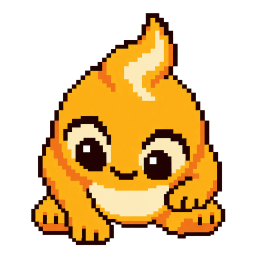
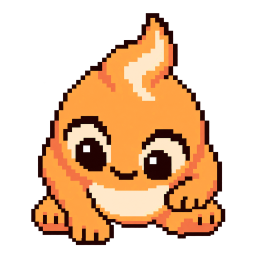
Wren gets a face; Juno stops changing colour
Wren is Sonnet — the default chat model — so the crew member who speaks most was
the one drawn as a stock compass-rose avatar beside four drawn characters. Seven
poses now: a violet creature with big round ears and a small star, chosen to
separate from the owl, the flame crest, the leaf ears and the sparrow at 52px.
Checked at thread size against the crew before the remaining frames were trusted,
and hue-checked across all seven poses: a 5.8° spread, within the crew's range.

Measuring Wren against the crew exposed Juno. Its idle, type and think frames were
red-orange and its blink, sleep, cheer and peek frames yellow-amber — two
generation batches — so Juno visibly changed colour as it woke (sleep and blink
yellow, then idle orange) and again when it cheered. The body pixels of the four
later frames were shifted onto the idle's hue, saturation and value, leaving
outlines, eyes and highlights alone: body hue 35–38° → 28.2–28.5° against idle's
28.5°. They are still drawn a little flatter; the colour no longer jumps.
Pre-recolour originals are kept.

A correction on the way: an earlier measurement said Juno flickered between two
oranges while typing, a 28.6° shift between idle and type. That was hue averaged
as a plain number when it is an angle — dark red outline pixels near 360° dragged
it. With a circular mean over body pixels only, idle and type differ by 2°.

Changed region(s): [[0.125, 0.0625, 0.875, 0.9375]]

diff --git a/server/src/crew.ts b/server/src/crew.ts
@@ -77,7 +77,7 @@ const DEFAULTS: Persona[] = [
   { match: 'fable', suite: 'claude', name: 'Bram', tier: 'flagship', color: '#5b45c7', avatar: '/avatars/fox.png' },
   { match: 'opus', suite: 'claude', name: 'Ollie', tier: 'flagship', color: '#2f3a72', avatar: '/avatars/narwhal.png', sprite: 'ollie' },
   { match: 'haiku', suite: 'claude', name: 'Moss', tier: 'worker', color: '#205a1d', avatar: '/avatars/mountain-goat.png', sprite: 'moss' },
-  { match: 'sonnet', suite: 'claude', name: 'Wren', tier: 'worker', color: '#673eb4', avatar: '/avatars/compass-rose.png' },
+  { match: 'sonnet', suite: 'claude', name: 'Wren', tier: 'worker', color: '#673eb4', avatar: '/avatars/compass-rose.png', sprite: 'wren' },
 
   // --- Codex ---
   { match: 'mini', suite: 'codex', name: 'Tuck', tier: 'worker', color: '#c7850b', avatar: '/avatars/robot.png' },

diff --git a/server/tests/doctrine.test.ts b/server/tests/doctrine.test.ts
@@ -130,7 +130,7 @@ describe('the crew animates by cutting, not fading', () => {
     const c = read('web/src/ChatView.tsx');
     expect(c).toMatch(/if \(!crew\.sprite \|\| failed\) return <CrewAvatar crew=\{crew\} size=\{size\} \/>/);
     const crew = read('server/src/crew.ts');
-    expect((crew.match(/sprite: '/g) ?? []).length).toBe(5); // juno appears twice; pip is the dispatcher
+    expect((crew.match(/sprite: '/g) ?? []).length).toBe(6); // juno appears twice; pip is the dispatcher; wren is sonnet
   });
 })
 

diff --git a/ROADMAP.md b/ROADMAP.md
@@ -388,7 +388,7 @@ Kept here so a fix never becomes a detour that loses the thread. Work top to bot
    - *Home*: done 2026-09-23 — palette, type, crew strip with real sleep/awake state, conversation card, compact fuel.
    - *Thread*: done 2026-09-23 — the face beside the bubble (52px), name and model on one line above it, bubbles with the board's square tails, your square avatar; verified on a live Opus 5.5 turn at a true phone viewport.
 3. ~~**Chapters**~~ — done 2026-09-23. A job runs from its first message until a verify passes, then folds into its named row (faces, name after the work, who and how many turns, status). A job that closes live stays open 1.8s so the stamp and cheer are seen, then folds; replayed history arrives folded. Client-side only: it changes what you see, never what the agents remember. The board's day grouping and week-folding are not built — transcripts do not survive a restart, so a thread rarely spans days yet. `?fixture=chapters` and `?fixture=chapters-live` render it on demand.
-4. **Faces for the other eight** (12b) — **Wren first**: Wren is Sonnet, the default chat model, so the crew member who speaks most has no drawn face.
+4. **Faces for the other eight** (12b) — **Wren done** 2026-09-23 (Sonnet, the default chat model, so the crew member who speaks most). Six remain: Bram, Fig, Tuck, Bly, Rue, Nell, Otto. Also fixed while measuring Wren against the crew: Juno's four later frames were ~10° yellower than its first three (two generation batches), so Juno changed colour as it woke; recoloured to Juno's idle, originals kept in `.roost-data/sprite-raw/pre-recolour`.
 5. **Triage is failing to parse** *(found 2026-09-23; pulled forward because if it were routine, auto-routing would be silently off)*: one sample only — the decisions log holds a single route. A direct call to the classifier WORKS (Haiku thinks, then replies with fenced JSON the parser handles), so it did not reproduce. Made diagnosable instead of guessed at: a fallback now logs the model's raw reply, an empty reply reports "returned nothing" rather than "unparseable", and the SDK's final `result` text is used when no text block arrives. Reopen when a `triage-fallback` row appears in the decisions log.
 
 
